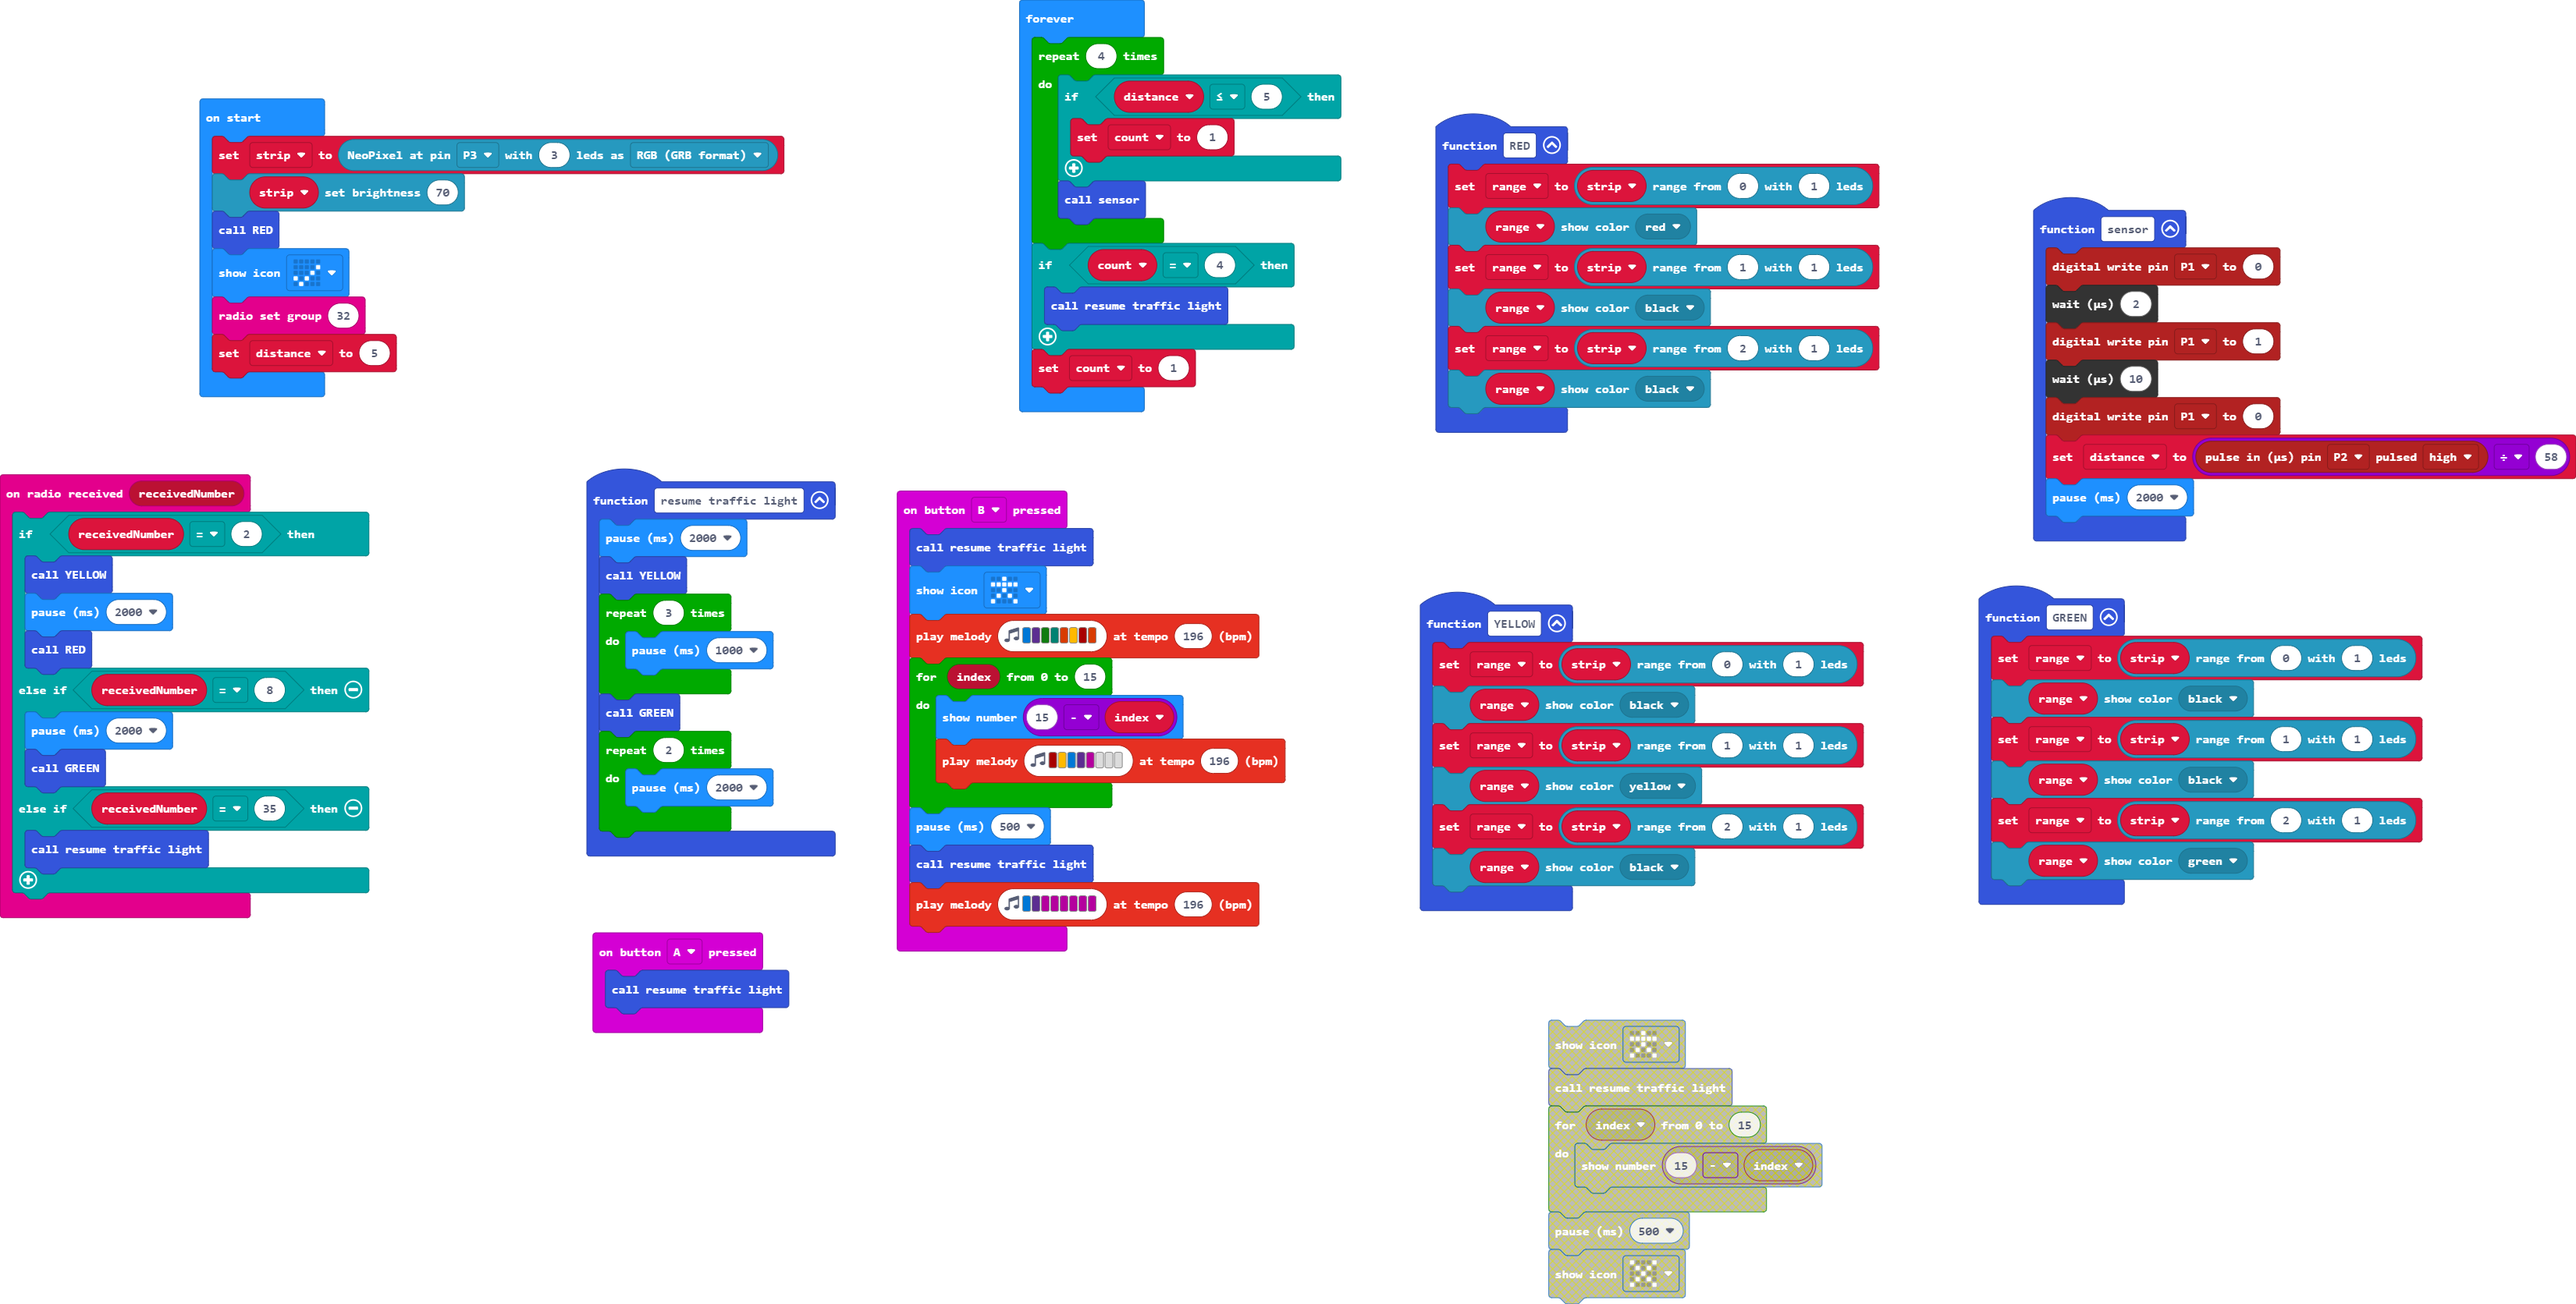
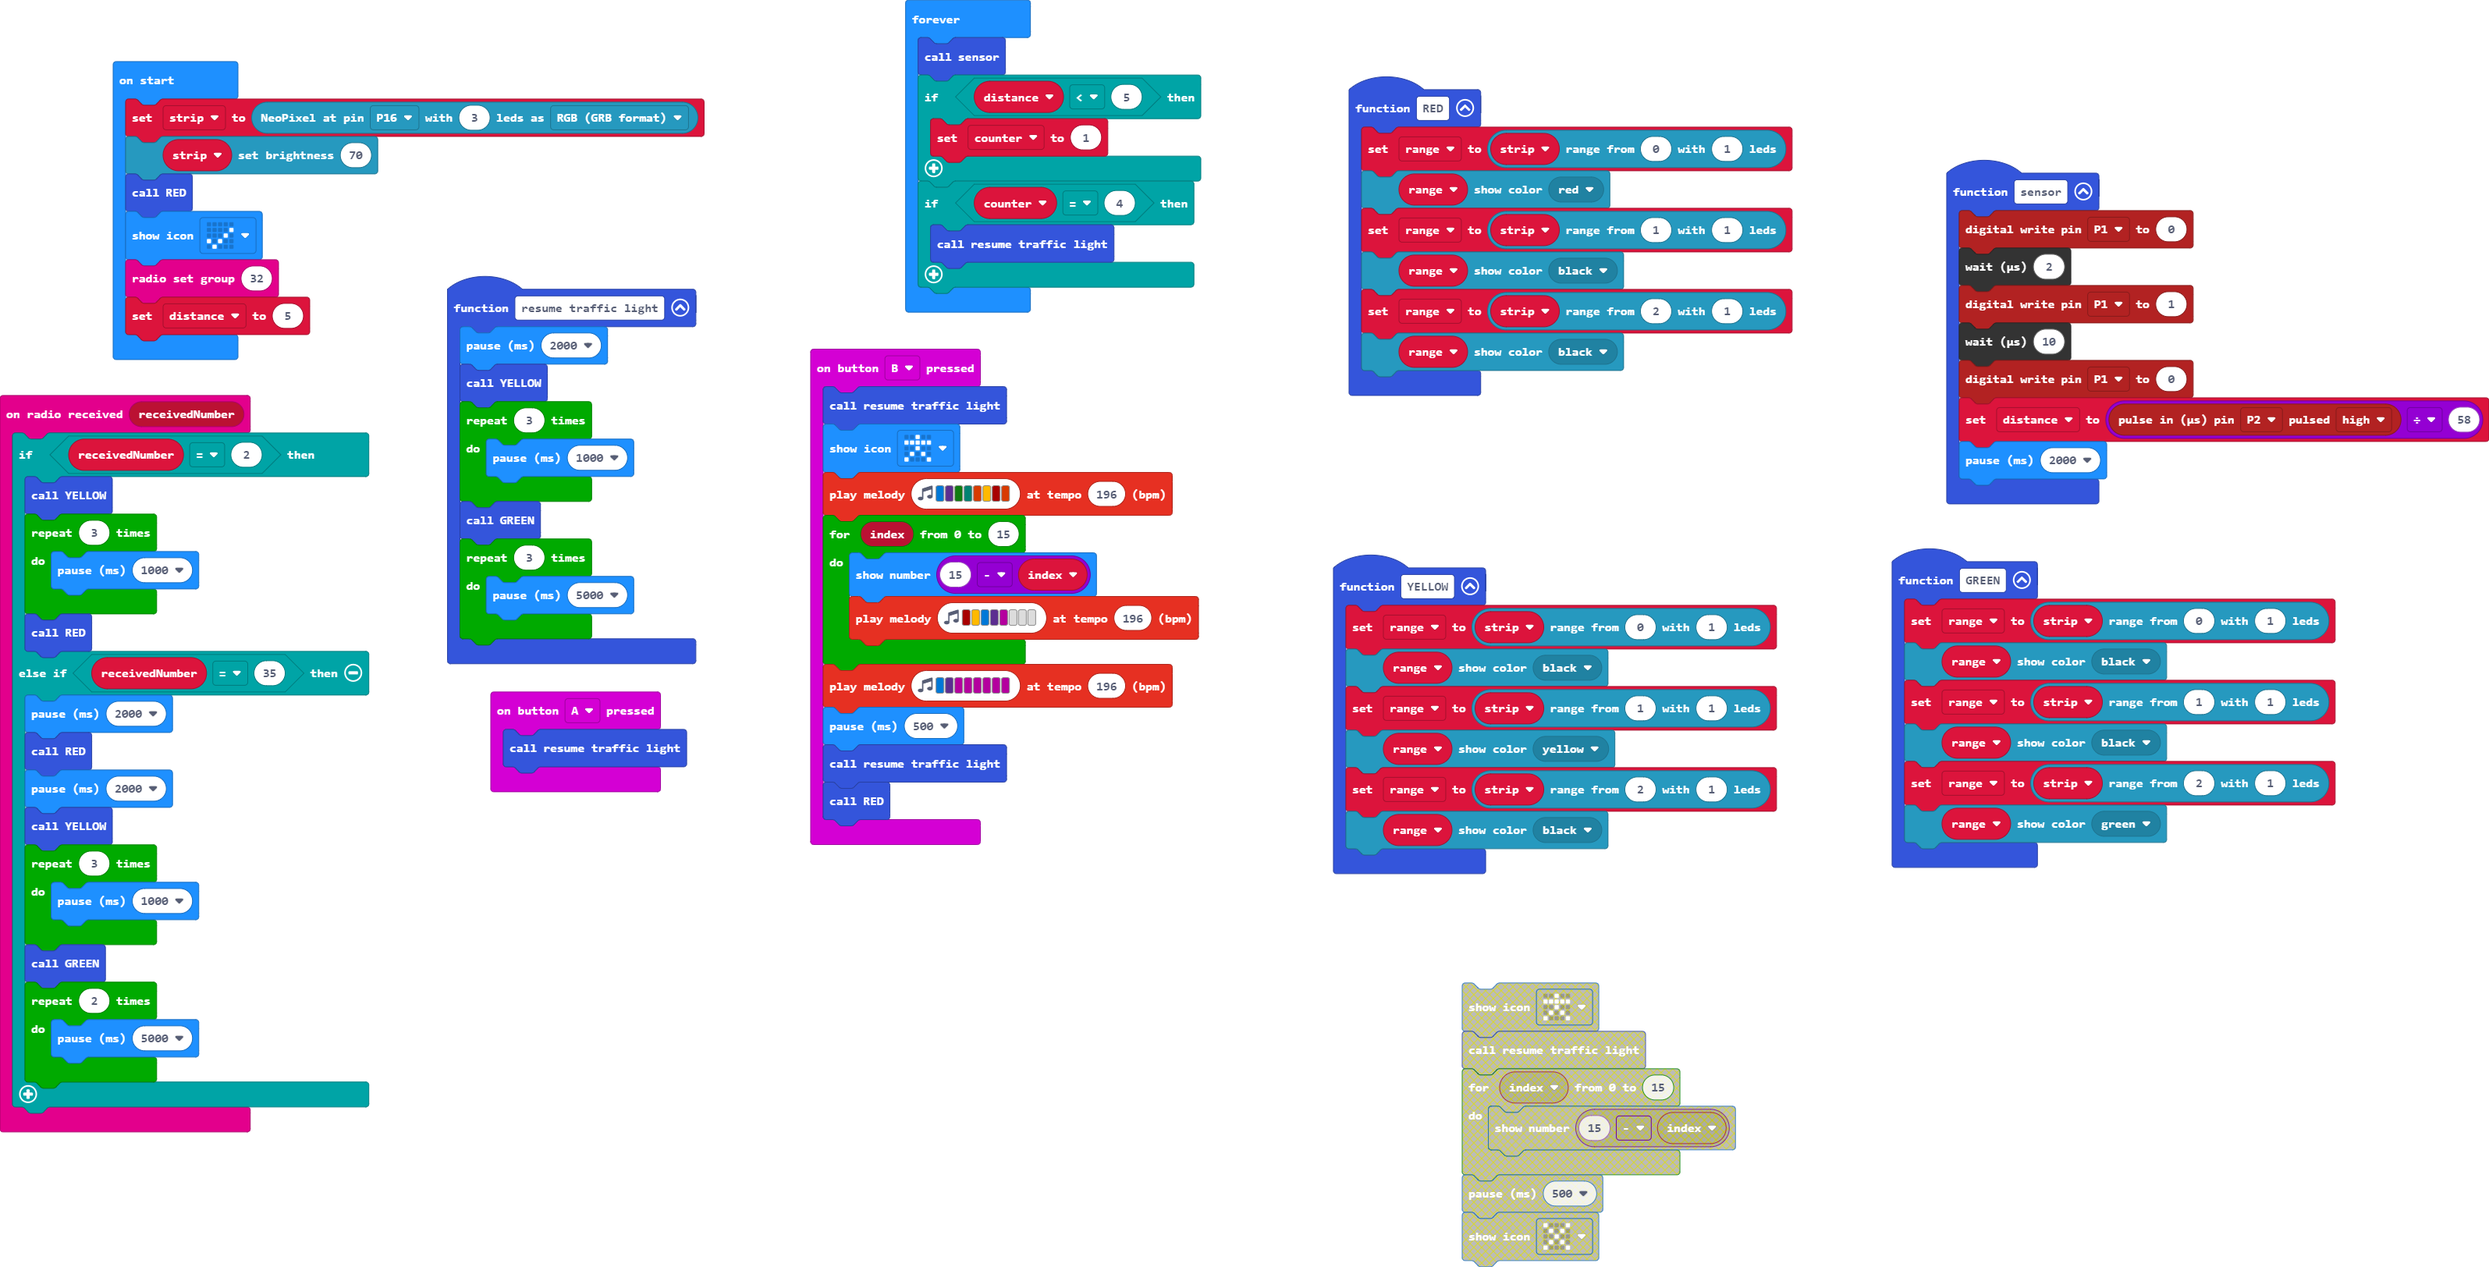
Update main.blocks, main.ts

diff --git a/main.ts b/main.ts
@@ -1,13 +1,22 @@
 radio.onReceivedNumber(function (receivedNumber) {
     if (receivedNumber == 2) {
         YELLOW()
+        for (let index = 0; index < 3; index++) {
+            basic.pause(1000)
+        }
+        RED()
+    } else if (receivedNumber == 35) {
         basic.pause(2000)
         RED()
-    } else if (receivedNumber == 8) {
         basic.pause(2000)
+        YELLOW()
+        for (let index = 0; index < 3; index++) {
+            basic.pause(1000)
+        }
         GREEN()
-    } else if (receivedNumber == 35) {
-        resume_traffic_light()
+        for (let index = 0; index < 2; index++) {
+            basic.pause(5000)
+        }
     }
 })
 input.onButtonPressed(Button.A, function () {
@@ -28,8 +37,8 @@ function resume_traffic_light () {
         basic.pause(1000)
     }
     GREEN()
-    for (let index = 0; index < 2; index++) {
-        basic.pause(2000)
+    for (let index = 0; index < 3; index++) {
+        basic.pause(5000)
     }
 }
 function GREEN () {
@@ -48,9 +57,10 @@ input.onButtonPressed(Button.B, function () {
         basic.showNumber(15 - index)
         music.playMelody("C5 A E D C - - - ", 196)
     }
+    music.playMelody("E D C C C C C C ", 196)
     basic.pause(500)
     resume_traffic_light()
-    music.playMelody("E D C C C C C C ", 196)
+    RED()
 })
 function sensor () {
     pins.digitalWritePin(DigitalPin.P1, 0)
@@ -69,25 +79,22 @@ function YELLOW () {
     range = strip.range(2, 1)
     range.showColor(neopixel.colors(NeoPixelColors.Black))
 }
-let count = 0
+let counter = 0
 let range: neopixel.Strip = null
 let distance = 0
 let strip: neopixel.Strip = null
-strip = neopixel.create(DigitalPin.P3, 3, NeoPixelMode.RGB)
+strip = neopixel.create(DigitalPin.P16, 3, NeoPixelMode.RGB)
 strip.setBrightness(70)
 RED()
 basic.showIcon(IconNames.Yes)
 radio.setGroup(32)
 distance = 5
 basic.forever(function () {
-    for (let index = 0; index < 4; index++) {
-        if (distance <= 5) {
-            count = 1
-        }
-        sensor()
+    sensor()
+    if (distance < 5) {
+        counter = 1
     }
-    if (count == 4) {
+    if (counter == 4) {
         resume_traffic_light()
     }
-    count = 1
 })
